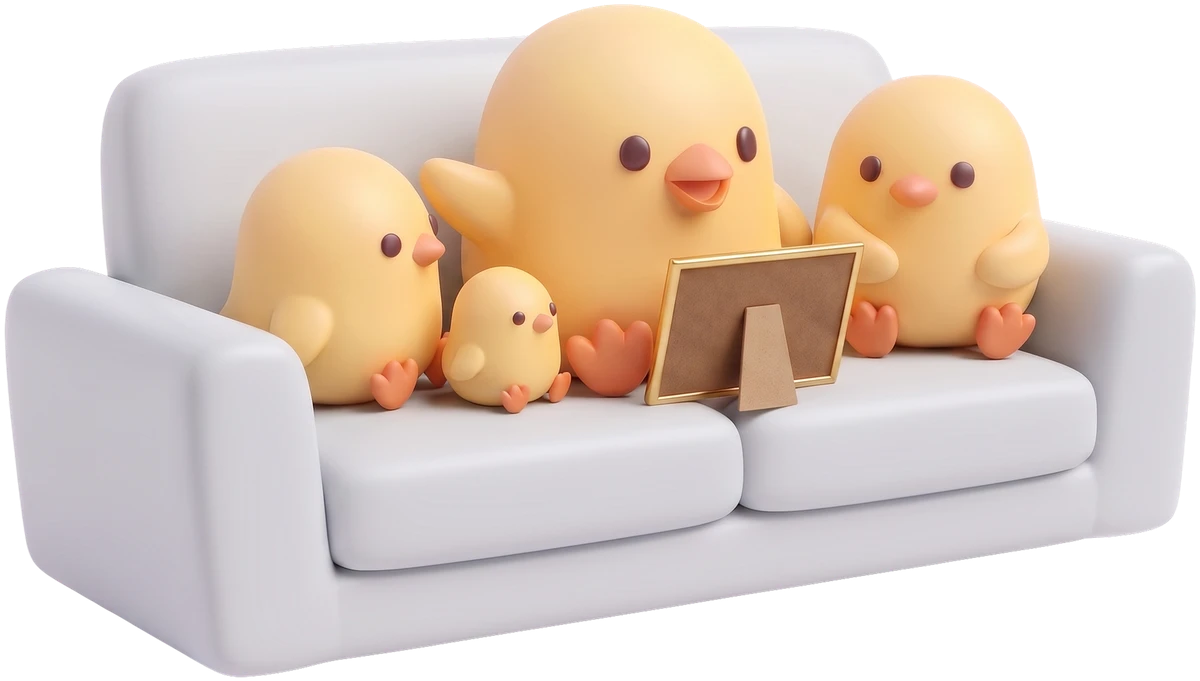
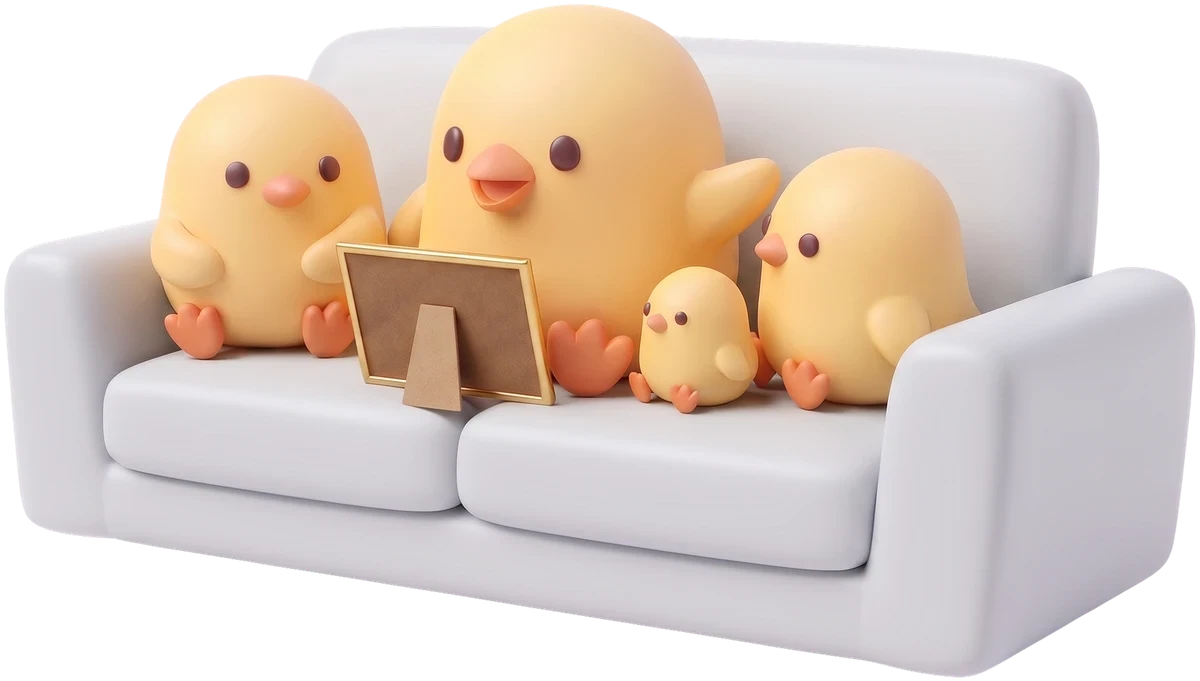
Voltea horizontalmente el sofa de la familia (Registro 1)
Pedido el 24-sep.

diff --git a/Prototipo/index.html b/Prototipo/index.html
@@ -72,7 +72,7 @@
       </div>
 
       <img class="registro-wordmark" src="assets/icons/wordmark-nido.svg" alt="Nido" />
-      <img class="registro-1-photo" src="assets/img/registro-1-pollitos-sofa.webp?v=2" alt="" />
+      <img class="registro-1-photo" src="assets/img/registro-1-pollitos-sofa.webp?v=3" alt="" />
       <img class="registro-1-underline" src="assets/icons/decorative-underline-blur.svg" alt="" />
       <p class="registro-1-title">Revive tu momentos mas especiales</p>
       <p class="registro-1-subtitle">Organiza tus fotos sin ningún esfuerzo</p>
